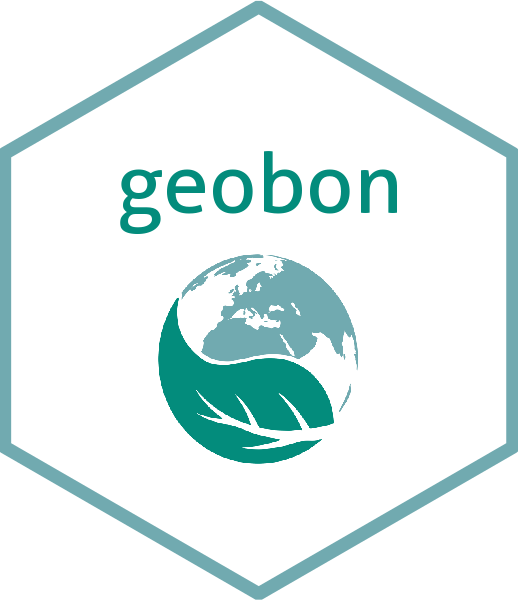
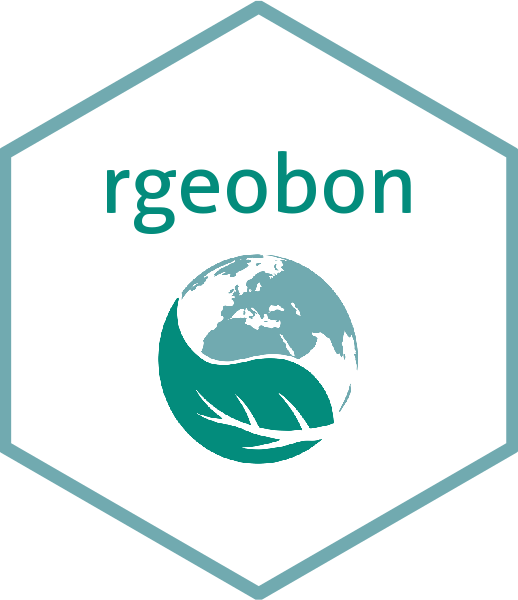
change package name

Changed region(s): [[0.1853, 0.24, 0.8031, 0.39]]

diff --git a/README.md b/README.md
@@ -1,7 +1,7 @@
 
 <!-- README.md is generated from README.Rmd. Please edit that file -->
 
-# geobon <img src="inst/images/sticker.png" align="right" width=140/>
+# rgeobon <img src="inst/images/sticker.png" align="right" width=140/>
 
 <!-- badges: start -->
 
@@ -12,27 +12,27 @@ MIT](https://img.shields.io/badge/License-MIT-yellow.svg)](https://opensource.or
 ![R-CMD-check](https://github.com/VLucet/geobon/workflows/R-CMD-check/badge.svg)
 <!-- badges: end -->
 
-The goal of geobon is to provide an interface between R and the [GEOBON
+The goal of rgeobon is to provide an interface between R and the [GEOBON
 open data portal](https://portal.geobon.org/index%3E) RESTfull API
 (please note that the portal is currently in beta). It allows to consult
 the datasets available on the portal and download them.
 
 ## Installation
 
-You can install geobon from GitHub:
+You can install rgeobon from GitHub:
 
 ``` r
-devtools::install_github("vlucet/geobon")
+devtools::install_github("vlucet/rgeobon")
 ```
 
 ## Example
 
-This demonstrates the basic functionnalities of `geobon`. You can first
-get the list of all the available datasets:
+This demonstrates the basic abilities of `rgeobon`. You can first get
+the list of all the available datasets:
 
 ``` r
-library(geobon)
-# Get the list of geobin datasets
+library(rgeobon)
+# Get the list of GEOBON datasets
 dataset_list <- geobon_list()
 head(dataset_list)
 #>   id                                   name            author publicationDate
